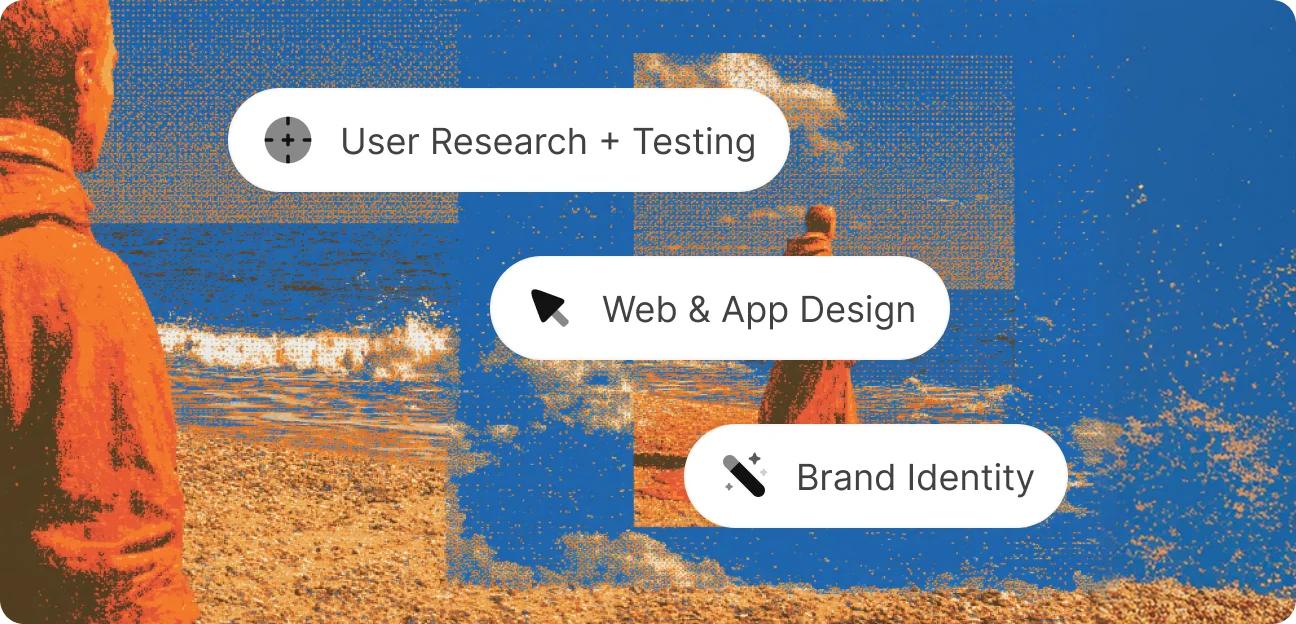
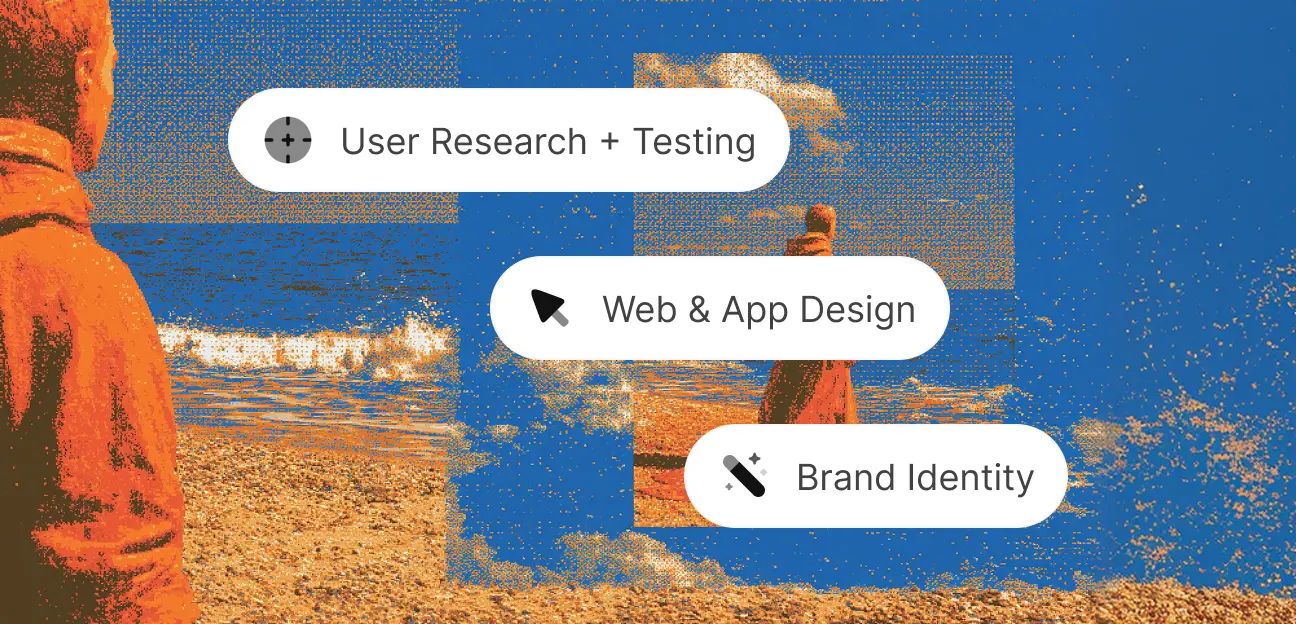
feat: implement landing page layout components with GSAP animations and parallax effects

diff --git a/app/components/ServicesSection.vue b/app/components/ServicesSection.vue
@@ -81,63 +81,56 @@ onMounted(() => {
 </script>
 
 <template>
-  <section
-    ref="sectionRef"
-    class="w-full bg-white px-4 md:px-8 lg:px-[60px] py-[80px] md:py-[120px]"
-  >
+  <section ref="sectionRef" class="w-full bg-white px-4 md:px-8 lg:px-[60px] py-[80px] md:py-[120px]">
     <div class="max-w-[1320px] mx-auto flex flex-col gap-12 md:gap-16">
-      
+
       <!-- Unified Grid for Reordering -->
       <div class="grid grid-cols-1 md:grid-cols-2 gap-y-10 md:gap-y-16 gap-x-6 md:gap-x-8 lg:gap-x-16 items-start">
-        
+
         <!-- Intro Text (Mobile: order-1, Desktop: order-3) -->
         <div ref="textLeftRef" class="flex flex-col gap-6 w-full max-w-[580px] order-1 md:order-3">
           <p class="font-sans text-[16px] leading-[26px] md:text-[18px] md:leading-[28px] text-[#121212]/80">
-            Markets change. Expectations evolve. Trends come and go. What lasts is clarity, trust, and products people remember.
+            Markets change. Expectations evolve. Trends come and go. What lasts is clarity, trust, and products people
+            remember.
           </p>
           <p class="font-sans text-[16px] leading-[26px] md:text-[18px] md:leading-[28px] text-[#121212]/80">
-            At D&amp;D, strategy comes first. We design digital products and experiences that solve real business problems, grow with the market, and never lose sight of what makes your brand unique.
+            At D&amp;D, strategy comes first. We design digital products and experiences that solve real business
+            problems, grow with the market, and never lose sight of what makes your brand unique.
           </p>
         </div>
 
         <!-- Left Image (Mobile: order-2, Desktop: order-1) -->
-        <div ref="leftCardRef" class="w-full overflow-hidden rounded-[20px] border border-gray-100 shadow-sm order-2 md:order-1">
-          <img
-            src="/images/services/kv-design.webp"
-            alt="Design Services"
-            class="w-full h-auto object-cover"
-            draggable="false"
-          />
+        <div ref="leftCardRef" class="w-full overflow-hidden border border-gray-100 shadow-sm order-2 md:order-1">
+          <img src="/images/services/kv-design.webp" alt="Design Services" class="w-full h-auto object-cover"
+            draggable="false" />
         </div>
 
         <!-- Right Image (Mobile: order-3, Desktop: order-2) -->
-        <div ref="rightCardRef" class="w-full overflow-hidden rounded-[20px] border border-gray-100 shadow-sm order-3 md:order-2">
-          <img
-            src="/images/services/kv-development.webp"
-            alt="Development Services"
-            class="w-full h-auto object-cover"
-            draggable="false"
-          />
+        <div ref="rightCardRef" class="w-full overflow-hidden border border-gray-100 shadow-sm order-3 md:order-2">
+          <img src="/images/services/kv-development.webp" alt="Development Services" class="w-full h-auto object-cover"
+            draggable="false" />
         </div>
 
         <!-- Right Text (Mobile: order-4, Desktop: order-4) -->
         <div ref="textRightRef" class="flex flex-col gap-10 w-full max-w-[580px] order-4 md:order-4">
-          
+
           <div class="flex flex-col gap-3">
-            <h3 class="font-alegreya text-[32px] leading-[40px] font-medium text-[#121212]">
+            <h3 class="font-alegreya text-[26px] md:text-[32px] leading-[40px] font-medium text-[#121212]">
               Product
             </h3>
             <p class="font-sans text-[15px] leading-[24px] md:text-[16px] md:leading-[26px] text-[#121212]/80">
-              From idea to launch, and beyond, our product design team works to efficiently and rapidly define, design and prototype world-class digital products, services or platforms.
+              From idea to launch, and beyond, our product design team works to efficiently and rapidly define, design
+              and prototype world-class digital products, services or platforms.
             </p>
           </div>
 
           <div class="flex flex-col gap-3">
-            <h3 class="font-alegreya text-[32px] leading-[40px] font-medium text-[#121212]">
+            <h3 class="font-alegreya text-[26px] md:text-[32px] leading-[40px] font-medium text-[#121212]">
               Development
             </h3>
             <p class="font-sans text-[15px] leading-[24px] md:text-[16px] md:leading-[26px] text-[#121212]/80">
-              From training AI-models and implementing scalable architectures in the cloud, to delivering high-performing website and platforms, we make digital products run.
+              From training AI-models and implementing scalable architectures in the cloud, to delivering
+              high-performing website and platforms, we make digital products run.
             </p>
           </div>
 

diff --git a/app/components/Navbar.vue b/app/components/Navbar.vue
@@ -14,7 +14,7 @@ onMounted(() => {
 
 <template>
   <header
-    class="w-full flex flex-col items-center justify-center py-4 px-4 md:py-5 md:px-8 lg:py-[22px] lg:px-[60px] max-w-8xl mx-auto relative z-50 transition-all duration-1000 ease-out"
+    class="w-full flex flex-col items-center justify-center py-0 px-4 md:py-5 md:px-8 lg:py-[22px] lg:px-[60px] max-w-8xl mx-auto relative z-50 transition-all duration-1000 ease-out"
     :class="isVisible ? 'opacity-100 translate-y-0' : 'opacity-0 -translate-y-4'">
     <div class="w-full flex flex-row items-center justify-between self-stretch">
 
@@ -22,15 +22,16 @@ onMounted(() => {
       <div
         class="flex flex-row items-center justify-between w-full md:w-auto md:hidden bg-white/90 backdrop-blur-sm p-4 rounded-xl border border-gray-100 shadow-sm">
         <img src="/images/logo.svg" alt="D&D Associates" class="h-[20px] w-auto" />
-        <button @click="isMobileMenuOpen = !isMobileMenuOpen" class="p-2 relative w-10 h-10 flex items-center justify-center" aria-label="Toggle Menu">
+        <button @click="isMobileMenuOpen = !isMobileMenuOpen"
+          class="p-2 relative w-10 h-10 flex items-center justify-center" aria-label="Toggle Menu">
           <svg :class="isMobileMenuOpen ? 'opacity-0 rotate-90 scale-75' : 'opacity-100 rotate-0 scale-100'"
             class="absolute transition-all duration-300 ease-in-out h-6 w-6 text-[#091416]" fill="none"
             viewBox="0 0 24 24" stroke="currentColor">
             <path stroke-linecap="round" stroke-linejoin="round" stroke-width="2" d="M4 6h16M4 12h16M4 18h16" />
           </svg>
           <svg :class="isMobileMenuOpen ? 'opacity-100 rotate-0 scale-100' : 'opacity-0 -rotate-90 scale-75'"
-            class="absolute transition-all duration-300 ease-in-out h-6 w-6 text-[#091416]" fill="none" viewBox="0 0 24 24"
-            stroke="currentColor">
+            class="absolute transition-all duration-300 ease-in-out h-6 w-6 text-[#091416]" fill="none"
+            viewBox="0 0 24 24" stroke="currentColor">
             <path stroke-linecap="round" stroke-linejoin="round" stroke-width="2" d="M6 18L18 6M6 6l12 12" />
           </svg>
         </button>
@@ -72,16 +73,12 @@ onMounted(() => {
     </div>
 
     <!-- Mobile Menu Overlay -->
-    <transition
-      enter-active-class="transition duration-300 ease-out origin-top"
-      enter-from-class="opacity-0 scale-y-95 -translate-y-2"
-      enter-to-class="opacity-100 scale-y-100 translate-y-0"
+    <transition enter-active-class="transition duration-300 ease-out origin-top"
+      enter-from-class="opacity-0 scale-y-95 -translate-y-2" enter-to-class="opacity-100 scale-y-100 translate-y-0"
       leave-active-class="transition duration-200 ease-in origin-top"
-      leave-from-class="opacity-100 scale-y-100 translate-y-0"
-      leave-to-class="opacity-0 scale-y-95 -translate-y-2"
-    >
+      leave-from-class="opacity-100 scale-y-100 translate-y-0" leave-to-class="opacity-0 scale-y-95 -translate-y-2">
       <div v-if="isMobileMenuOpen"
-        class="md:hidden absolute top-full left-0 w-full bg-white shadow-md flex flex-col p-4 gap-4 z-40 border-t border-[#F7F6F6] rounded-b-xl mt-2">
+        class="md:hidden absolute top-full left-0 w-full bg-white shadow-md flex flex-col pt-0 p-4 gap-4 z-40 border-t border-[#F7F6F6] rounded-b-xl">
         <a href="#info" @click="isMobileMenuOpen = false"
           class="py-2 font-sans font-medium text-[18px] text-[#091416]">Info</a>
         <a href="#work" @click="isMobileMenuOpen = false"

diff --git a/app/components/CTASection.vue b/app/components/CTASection.vue
@@ -31,23 +31,23 @@ onMounted(() => {
 
 <template>
   <section ref="ctaRef"
-    class="w-full relative min-h-[50vh] flex flex-col items-center justify-center pb-24 overflow-hidden bg-white">
+    class="w-full relative min-h-[50vh] flex flex-col items-center justify-center pb-0 md:pb-24 overflow-hidden bg-white">
     <!-- Cloud Background -->
-    <div class="absolute inset-0 top-0 left-0 w-full h-full pointer-events-none select-none z-0">
+    <div class="absolute inset-0 top-0 left-0 w-full h-full pointer-events-none select-none z-0 overflow-hidden">
       <!-- Left Cloud -->
       <img src="/images/cta/left_cloud.webp" alt=""
-        class="absolute left-[-10%] bottom-0 w-[85%] sm:w-[70%] md:w-[45%] max-w-[600px] h-auto max-h-[80%] md:max-h-full object-contain object-left-bottom opacity-90" />
+        class="absolute right-1/2 md:right-auto md:left-[-10%] bottom-0 w-[85%] sm:w-[70%] md:w-[45%] max-w-[600px] h-auto max-h-[80%] md:max-h-full object-contain object-right-bottom md:object-left-bottom opacity-90" />
 
       <!-- Right Cloud -->
       <img src="/images/cta/right_cloud.webp" alt=""
-        class="absolute right-[-10%] md:right-0 bottom-0 w-[85%] sm:w-[70%] md:w-[45%] max-w-[600px] h-auto max-h-[80%] md:max-h-full object-contain object-right-bottom opacity-90" />
+        class="absolute left-1/2 md:left-auto md:right-[-10%] bottom-0 w-[85%] sm:w-[70%] md:w-[45%] max-w-[600px] h-auto max-h-[80%] md:max-h-full object-contain object-left-bottom md:object-right-bottom opacity-90" />
     </div>
 
     <!-- Text Content -->
     <div
       class="cta-content relative z-10 flex flex-col items-center text-center max-w-[600px] pt-12 md:pt-20 mx-auto px-4 pb-12">
       <h2
-        class="font-alegreya font-medium text-[32px] md:text-[48px] leading-[40px] md:leading-[56px] tracking-[-0.01em]">
+        class="font-alegreya font-medium text-[26px] md:text-[48px] leading-[40px] md:leading-[56px] tracking-[-0.01em]">
         <span class="text-[#A8A8A8]">Interested</span>
         <span class="text-[#121212]"> in working with us?</span>
       </h2>

diff --git a/app/components/WorkSection.vue b/app/components/WorkSection.vue
@@ -50,7 +50,8 @@ onMounted(() => {
 </script>
 
 <template>
-  <section id="work" ref="workSectionRef" class="w-full relative pb-24 flex flex-col items-center overflow-hidden">
+  <section id="work" ref="workSectionRef"
+    class="w-full relative pb-0 md:pb-24 flex flex-col items-center overflow-hidden">
     <!-- Header Banner -->
     <div ref="headerRef"
       class="relative w-full min-h-[40vh] md:min-h-[70vh] flex flex-col items-center justify-center px-4 overflow-hidden">
@@ -64,11 +65,11 @@ onMounted(() => {
       <!-- Text Content -->
       <div class="relative z-10 flex flex-col items-center text-center max-w-[700px] mx-auto">
         <h2
-          class="font-serif mt-10 md:mt-0 text-[#A8A8A8] text-[26px] md:text-[48px] leading-[40px] md:leading-[56px] tracking-[-0.01em]">
+          class="font-serif mt-[100px] sm:mt-[60px] md:mt-0 text-[#A8A8A8] text-[26px] md:text-[48px] leading-[40px] md:leading-[56px] tracking-[-0.01em]">
           Our work.
         </h2>
         <h2
-          class="font-serif w-[70%] md:w-full text-[#121212] text-[26px] md:text-[48px] leading-[40px] md:leading-[56px] tracking-[-0.01em] mt-1 md:mt-2">
+          class="font-serif w-[70%] md:w-full text-[#121212] text-[20px] md:text-[48px] leading-[40px] md:leading-[56px] tracking-[-0.01em] mt-1 md:mt-2">
           Recent case studies, plus a few things we built just because we wanted to.
         </h2>
       </div>

diff --git a/app/components/HeroSection.vue b/app/components/HeroSection.vue
@@ -104,7 +104,7 @@ onMounted(() => {
 
   // 8. Add Parallax effects tied to scroll
   const section = document.querySelector('.hero-section')
-  
+
   // Background clouds (deepest layer) move slowest (stay on screen longer)
   gsap.to([leftBgCloudRef.value, rightBgCloudRef.value], {
     y: 150,
@@ -218,7 +218,7 @@ onMounted(() => {
     <!-- ── Text content (centred, above all imagery) ─────────────────────── -->
     <div class="relative z-30 flex flex-col items-center text-center
              px-4
-             pt-[120px] md:pt-[140px] lg:pt-[156px]
+             pt-[20px] md:pt-[140px] lg:pt-[156px]
              pb-[280px] md:pb-[360px] lg:pb-[420px]">
 
       <!-- Headline -->

diff --git a/app/components/Footer.vue b/app/components/Footer.vue
@@ -45,7 +45,8 @@ onMounted(() => {
 
     <!-- Content -->
     <div class="relative z-10 flex flex-col items-center text-center w-full max-w-[1000px] mx-auto px-4">
-      <h2 ref="h2Ref" class="font-serif text-[32px] sm:text-[40px] md:text-[56px] leading-[1.1] text-white">
+      <h2 ref="h2Ref"
+        class="font-serif text-[26px] md:text-[32px] sm:text-[40px] md:text-[56px] leading-[1.1] text-white">
         <span class="text-[#A8A8A8]">Creativity</span> is the last bastion<br class="hidden md:block" /> of human
         exceptionalism.
       </h2>
